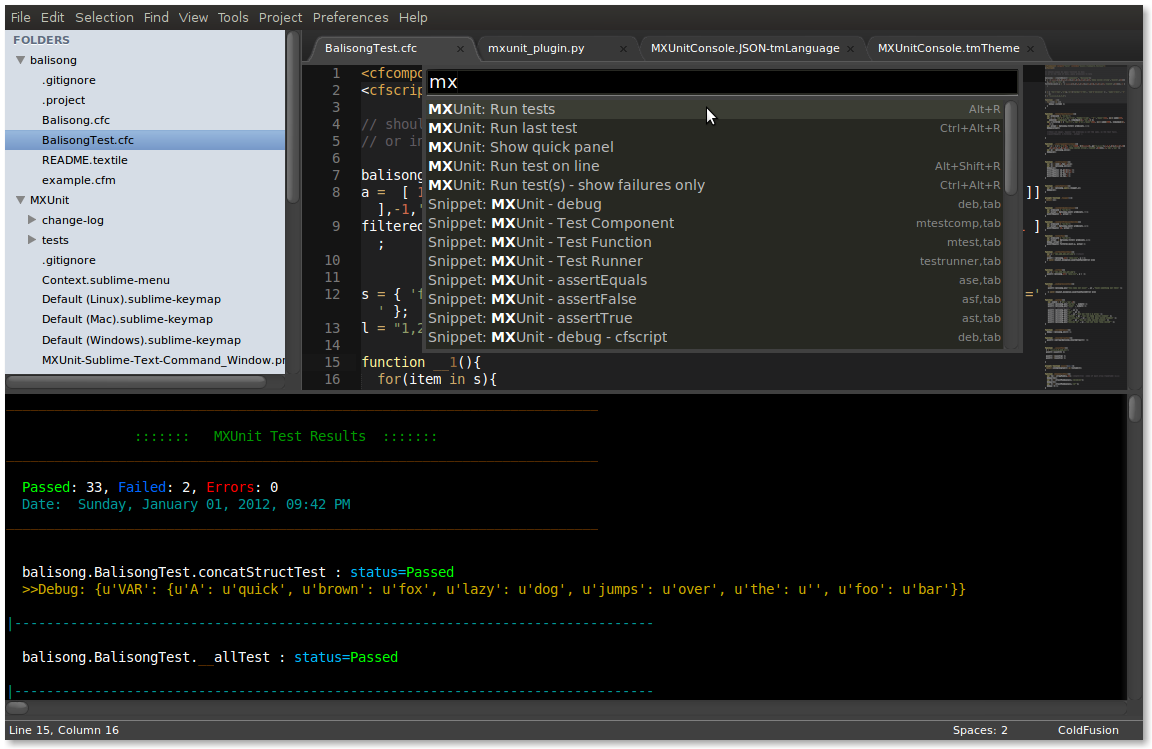
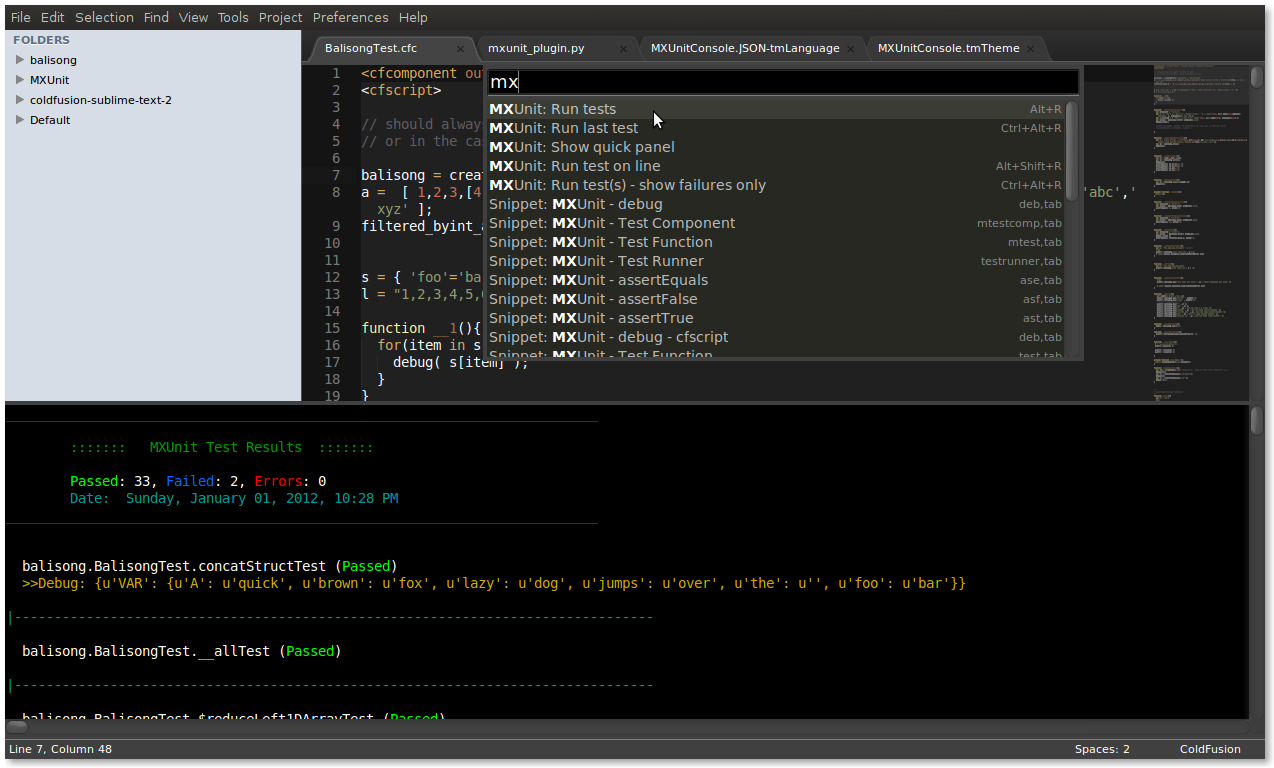
Tweak output console

diff --git a/mxunit_plugin.py b/mxunit_plugin.py
@@ -130,21 +130,21 @@ class SingleTestCommand(BaseCommand):
 
 def pretty_results(test_results):
 	_results = '__________________________________________________________________________\n\n'
-	_results += '    			:::::::   MXUnit Test Results  :::::::     \n'
-	_results += '__________________________________________________________________________\n\n'
+	_results += '		:::::::   MXUnit Test Results  :::::::     \n\n'
+	#_results += '__________________________________________________________________________\n\n'
 	tests = json.loads(test_results)
 	passed =  len( [ x for x in tests if x['TESTSTATUS']=='Passed'] )
 	failed =  len( [ x for x in tests if x['TESTSTATUS']=='Failed'] )
 	errors =  len( [ x for x in tests if x['TESTSTATUS']=='Error'] )
-	_results += '  Passed: %s, Failed: %s, Errors: %s\n' % (passed,failed,errors)
-	_results += '  Date:  %s\n' % (datetime.datetime.now().strftime("%A, %B %d, %Y, %I:%M %p"))
+	_results += '		Passed: %s, Failed: %s, Errors: %s\n' % (passed,failed,errors)
+	_results += '		Date:  %s\n' % (datetime.datetime.now().strftime("%A, %B %d, %Y, %I:%M %p"))
 	_results += '__________________________________________________________________________\n\n'
 
 	#To Do: Calculate totals --total, errors, failures, time
 	#pprint( len(tests) )
 
 	for test in tests:
-		_results += '\n  %s.%s : status=%s\n' % (test['COMPONENT'],test['TESTNAME'], test['TESTSTATUS'] ) 
+		_results += '\n  %s.%s (%s)\n' % (test['COMPONENT'],test['TESTNAME'], test['TESTSTATUS'] ) 
 		if( test['DEBUG'] ):
 			_debug = test['DEBUG']
 			i=0
